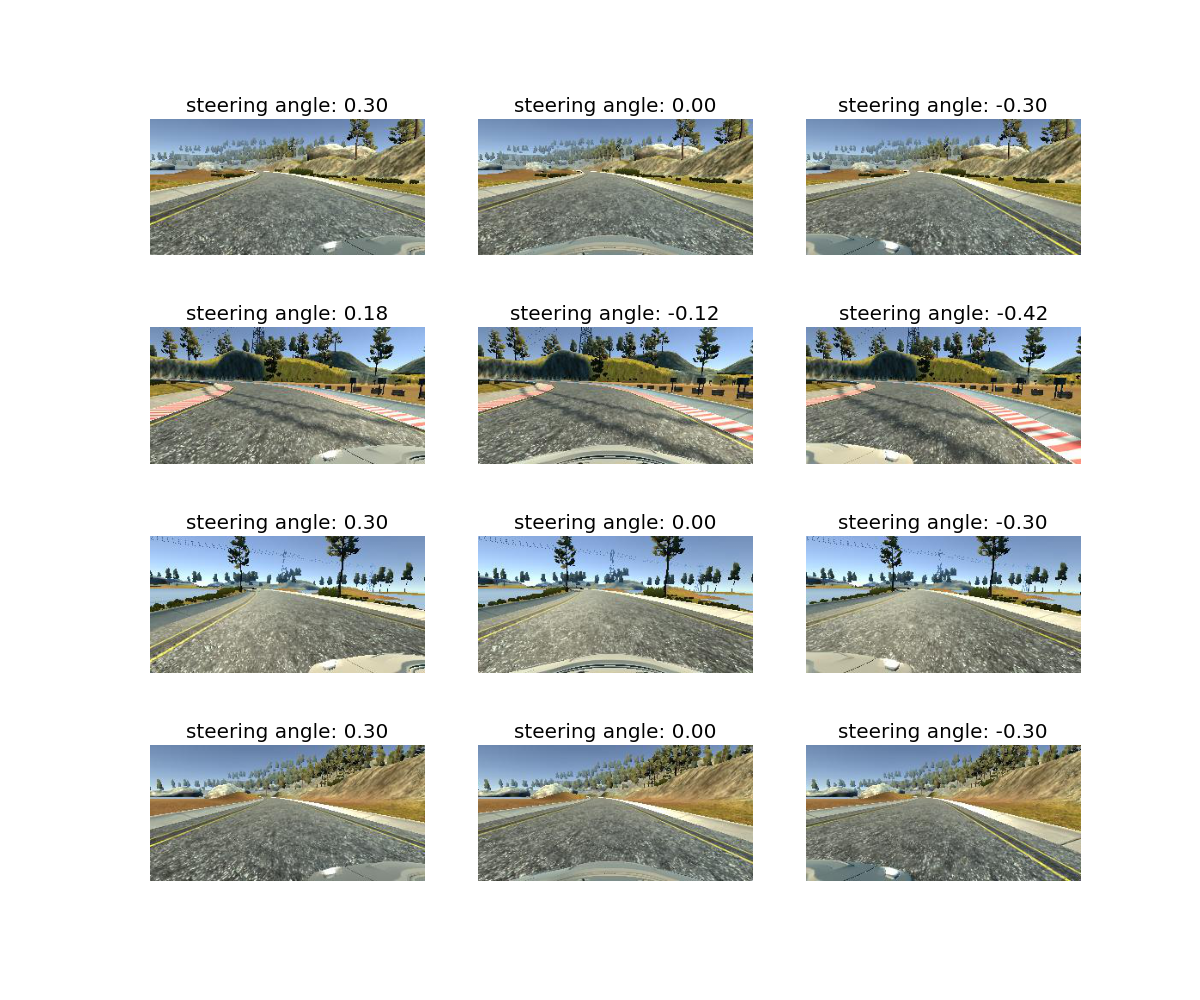
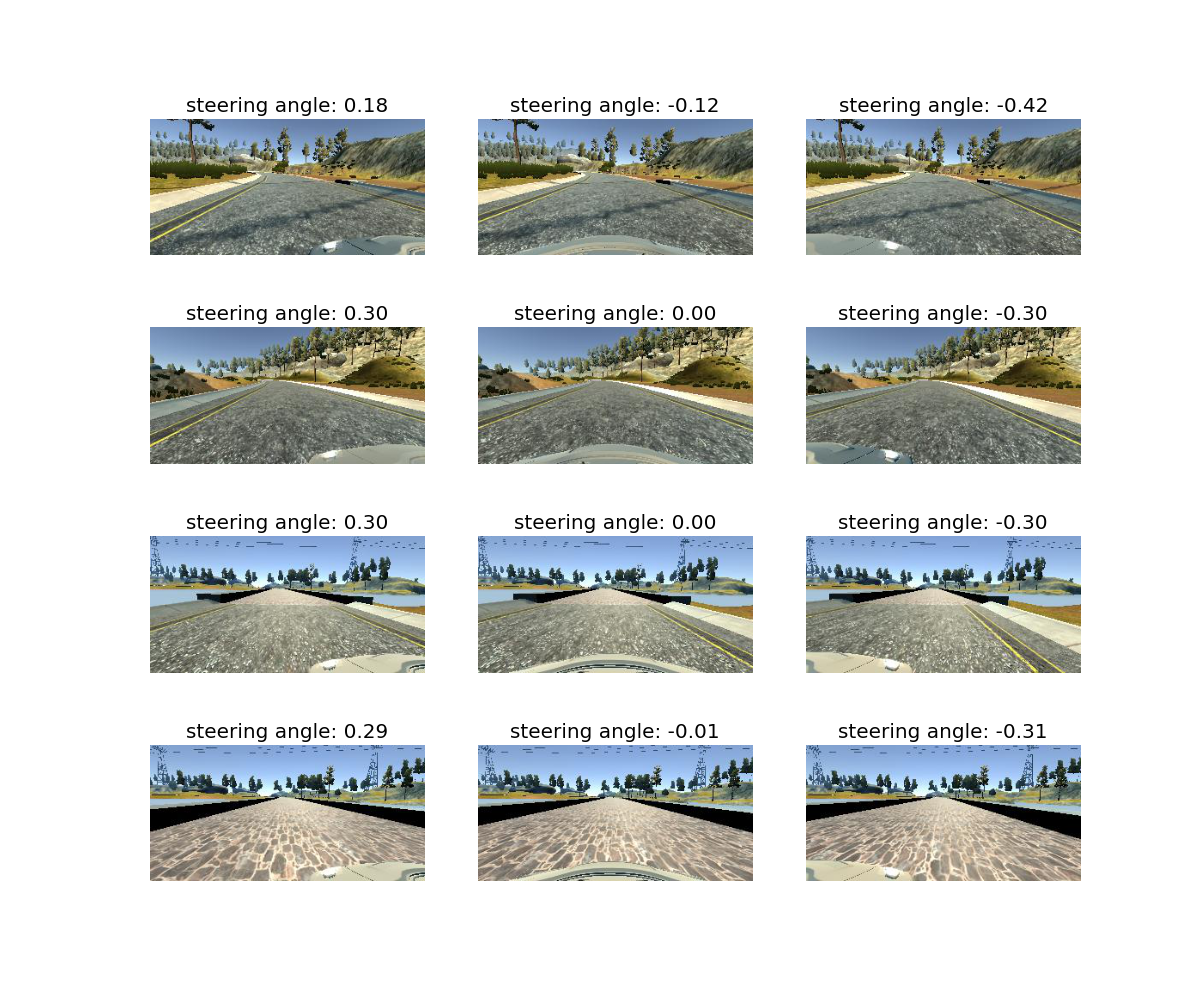
Minor changes

diff --git a/process.py b/process.py
@@ -52,7 +52,7 @@ def show_processed_examples():
         st = ys[i]
         plt.subplot(4, 3, i + 2)
         plt.imshow(img.astype(np.uint8))
-        plt.title('str: {:.2f}'.format(st))
+        plt.title('steering angle: {:.2f}'.format(st))
         plt.axis('off');
 
     plt.savefig('imgs/processed.png')
